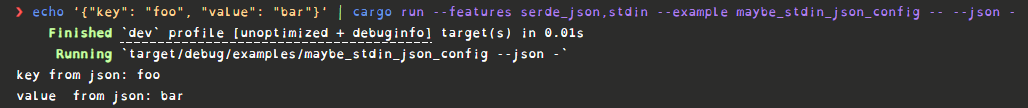
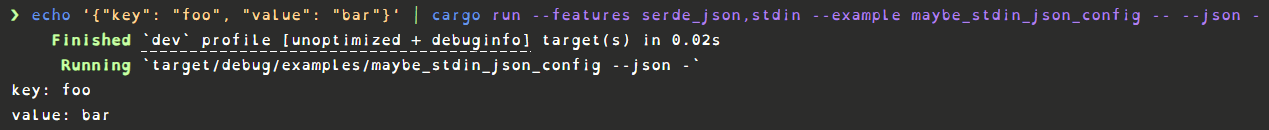
docs: update docs to match having no enum

diff --git a/examples/maybe_json_config.rs b/examples/maybe_json_config.rs
@@ -4,7 +4,9 @@ use serde::Deserialize;
 
 #[derive(Args, Deserialize, Debug, Clone)]
 struct Config {
+    #[clap(long, short)]
     key:   String,
+    #[clap(long, short)]
     value: String,
 }
 

diff --git a/examples/maybe_stdin_json_config.rs b/examples/maybe_stdin_json_config.rs
@@ -4,7 +4,9 @@ use serde::Deserialize;
 
 #[derive(Args, Deserialize, Debug, Clone)]
 struct Config {
+    #[clap(long, short)]
     key:   String,
+    #[clap(long, short)]
     value: String,
 }
 

diff --git a/README.md b/README.md
@@ -41,10 +41,10 @@ fn main() {
 ```
 
 The help output looks like:
-![Json Config Help Example](https://github.com/gluax/clap-maybe-deser/blob/main/screenshots/deser_json_config_help.png)
+![Json Config Help Example](screenshots/deser_json_config_help.png)
 
 The usage looks like:
-![Json Config Use Example](https://github.com/gluax/clap-maybe-deser/blob/main/screenshots/deser_json_config.png)
+![Json Config Use Example](screenshots/deser_json_config.png)
 
 
 ### `MaybeDeser`
@@ -59,7 +59,9 @@ use serde::Deserialize;
 
 #[derive(Args, Deserialize, Debug, Clone)]
 struct Config {
+    #[clap(long, short)]
     key:   String,
+    #[clap(long, short)]
     value: String,
 }
 
@@ -71,27 +73,19 @@ struct Cli {
 
 fn main() {
     let args = Cli::parse();
-    match args.config {
-        MaybeDeser::Data(config) => {
-            println!("key from json: {}", config.data.key);
-            println!("value  from json: {}", config.data.value);
-        }
-        MaybeDeser::Fields(fields) => {
-            println!("key from fields: {}", fields.key);
-            println!("value  from fields: {}", fields.value);
-        }
-    }
+    println!("key: {}", args.config.data.key);
+    println!("value: {}", args.config.data.value);
 }
 ```
 
 The help output looks like:
-![Mayble Json Config Help Example](https://github.com/gluax/clap-maybe-deser/blob/main/screenshots/maybe_deser_json_config_help.png)
+![Mayble Json Config Help Example](screenshots/maybe_deser_json_config_help.png)
 
 The usage passing json looks like:
-![Maybe Json Config Json Use Example](https://github.com/gluax/clap-maybe-deser/blob/main/screenshots/maybe_deser_json_config_json.png)
+![Maybe Json Config Json Use Example](screenshots/maybe_deser_json_config_json.png)
 
 The usage passing flags looks like:
-![Maybe Json Config Flags Use Example](https://github.com/gluax/clap-maybe-deser/blob/main/screenshots/maybe_deser_json_config_flags.png)
+![Maybe Json Config Flags Use Example](screenshots/maybe_deser_json_config_flags.png)
 
 
 
@@ -107,7 +101,9 @@ use serde::Deserialize;
 
 #[derive(Args, Deserialize, Debug, Clone)]
 struct Config {
+    #[clap(long, short)]
     key:   String,
+    #[clap(long, short)]
     value: String,
 }
 
@@ -119,22 +115,13 @@ struct Cli {
 
 fn main() {
     let args = Cli::parse();
-    match args.config {
-        MaybeStdinDeser::Data(config) => {
-            println!("key from json: {}", config.data.key);
-            println!("value  from json: {}", config.data.value);
-        }
-        MaybeStdinDeser::Fields(fields) => {
-            println!("key from fields: {}", fields.key);
-            println!("value  from fields: {}", fields.value);
-        }
-    }
+    println!("key: {}", args.config.data.key);
+    println!("value: {}", args.config.data.value);
 }
-
 ```
 
 The output and usage methods are the exact same as above but now you can pass in the `JSON` from `stdin`:
-![Maybe Json Config Json Stdin Use Example](https://github.com/gluax/clap-maybe-deser/blob/main/screenshots/maybe_stdin_json_config.png)
+![Maybe Json Config Json Stdin Use Example](screenshots/maybe_stdin_json_config.png)
 
 
 ### Custom Implmentations
@@ -181,13 +168,14 @@ fn main() {
 ```
 
 You can see this in action as well:
-![Custom Yaml Config Use Example](https://github.com/gluax/clap-maybe-deser/blob/main/screenshots/custom_yaml_config.png)
+![Custom Yaml Config Use Example](screenshots/custom_yaml_config.png)
 
 
 ## TODO's
 
 - [ ] Support more serde crates out of the box.
 - [ ] Dynamic naming of the flag for `MaybeDeser` and `MaybeStdinDeser`.
+- [ ] Add support for also reading from a File via `clap-stdin`'s `FileOrStdin`.
 
 ## Licensing
 
